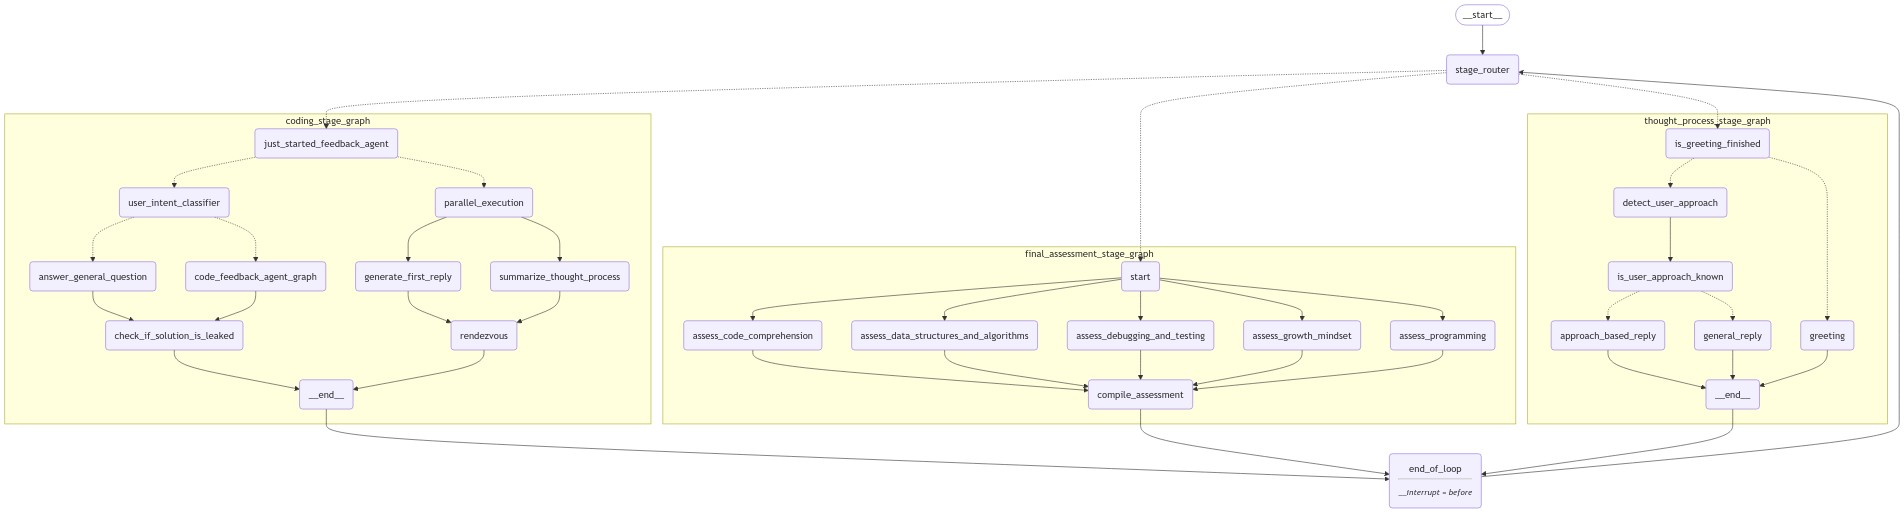
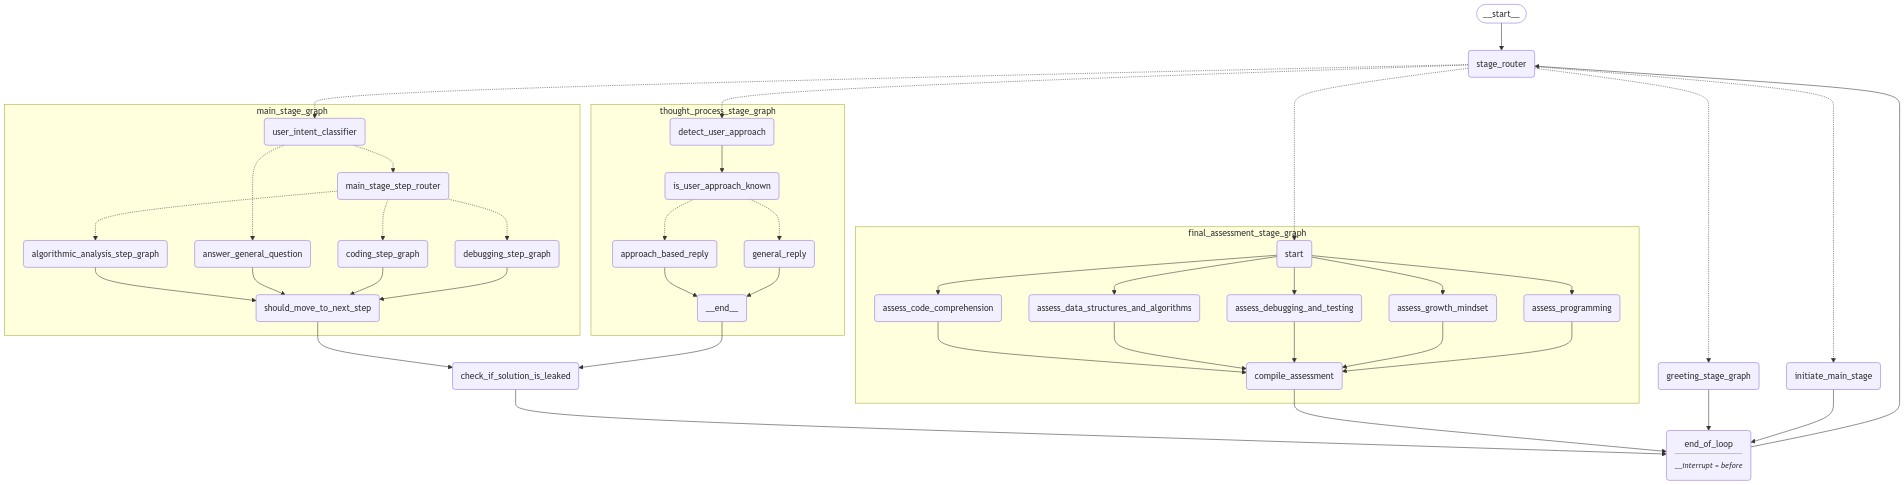
merge updated cognitive architecture

diff --git a/backend/agents/subgraphs/thought_process_stage/graph.py b/backend/agents/subgraphs/thought_process_stage/graph.py
@@ -11,7 +11,11 @@ from langchain_core.output_parsers import StrOutputParser
 from agents.state_schema import OverallState
 
 from agents.llm_models import chat_model
-from agents.subgraphs.thought_process_stage.prompts import default_system_message, IDENTIFY_USER_APPROACH, GIVE_APPROACH_SPEIFIC_HINT
+from agents.subgraphs.thought_process_stage.prompts import (
+    default_system_message,
+    IDENTIFY_USER_APPROACH,
+    GIVE_APPROACH_SPEIFIC_HINT,
+)
 from langchain_core.messages import SystemMessage, HumanMessage, AIMessage
 from pydantic import BaseModel, Field
 
@@ -23,17 +27,16 @@ def is_user_approach_known(state: OverallState):
     else:
         return n(general_reply)
 
+
 def approach_based_reply(state: OverallState):
     print("\n>>> NODE: approach_based_reply")
-
-    print(f"\n>>>NODE: {state.user_approach}")
     response = (
         ChatPromptTemplate.from_template(GIVE_APPROACH_SPEIFIC_HINT) | chat_model
     ).invoke(
         {
             "question": state.interview_question,
             "approach": f"{state.user_approach}",
-            "conversation": state.stringify_messages()
+            "conversation": state.stringify_messages(),
         }
     )
 
@@ -41,6 +44,7 @@ def approach_based_reply(state: OverallState):
         "message_from_interviewer": response.content.strip("ai: "),
         "messages": [AIMessage(content=response.content.strip("ai: "))],
     }
+
 
 def detect_user_approach(state: OverallState):
     print("\n>>> NODE: detect_user_approach")
@@ -59,29 +63,38 @@ def detect_user_approach(state: OverallState):
     IdentifyUserApproachResponse = type(
         "IdentifyUserApproachResponse",
         (BaseModel,),
-        {
-            "__annotations__": {"approach": Approach},
-            "approach": Field()
-        }
+        {"__annotations__": {"approach": Approach}, "approach": Field()},
     )
 
     approach_enum = (
-        ChatPromptTemplate.from_template(IDENTIFY_USER_APPROACH)
-        | chat_model.with_structured_output(IdentifyUserApproachResponse)
-    ).invoke(
-        {
-            "question": state.interview_question,
-            "approaches": state.interview_approaches,
-            "conversation": state.stringify_messages(),
-        }
-    ).approach
+        (
+            ChatPromptTemplate.from_template(IDENTIFY_USER_APPROACH)
+            | chat_model.with_structured_output(IdentifyUserApproachResponse)
+        )
+        .invoke(
+            {
+                "question": state.interview_question,
+                "approaches": state.interview_approaches,
+                "conversation": state.stringify_messages(),
+            }
+        )
+        .approach
+    )
 
-    user_approach_dict = next((approach for approach in state.interview_approaches if approach['title'] == approach_enum.value), None)
+    user_approach_dict = next(
+        (
+            approach
+            for approach in state.interview_approaches
+            if approach["title"] == approach_enum.value
+        ),
+        None,
+    )
 
     if user_approach_dict is None:
-        raise ValueError(f"Approach {approach_enum.value} not found in {state.interview_approaches}")
+        return {"user_approach:" "unknown"}
 
     return {"user_approach": json.dumps(user_approach_dict)}
+
 
 def general_reply(state: OverallState):
     print("\n>>> NODE: general_reply")
@@ -100,118 +113,19 @@ def general_reply(state: OverallState):
     }
 
 
-def is_greeting_finished(state: OverallState):
-    print("\n>>> CONDITIONAL EDGE: is_greeting_finished")
-    if state.stage == "greeting":
-        return n(greeting)
-    else:
-        return n(detect_user_approach)
-
-
-def greeting(state: OverallState):
-    print("\n>>> NODE: greeting")
-    first_msg = f"Hello! {state.interviewee_name} How are you doing today?\n\n💡If you already know how the interview works, you can answer 'skip'.)"
-    greeting_messages = [
-        """Let me explain the structure of the interview. There are two parts:
-
-1. Thought Process Phase: In this stage, you’ll walk me through how you would approach solving the problem.
-
-2. Coding Phase: In this stage, you will implement your solution based on the approach discussed.
-
-Does this make sense?""",
-        """Great! Let's begin the thought process phase.
-
-Please read the interview question above carefully, and explain how you would approach the problem. Feel free to ask clarifying questions at any point 😁""",
-    ]
-
-    if len(state.messages) == 0:
-        greeting_msg = first_msg
-        return {
-            "message_from_interviewer": greeting_msg,
-            "messages": [
-                default_system_message(state.interview_question_md),
-                AIMessage(content=greeting_msg),
-            ],
-        }
-    else:
-        if len(state.messages) > 1 and state.messages[-1].content.strip().lower() == "skip":
-            greeting_msg_index = -1
-            return {
-                "message_from_interviewer": greeting_messages[greeting_msg_index],
-                "messages": [AIMessage(content=greeting_messages[greeting_msg_index])],
-                "greeting_msg_index": greeting_msg_index,
-                "stage": "greeting" if greeting_msg_index < len(greeting_messages) and greeting_msg_index >= 0 else "thought_process",
-        }
-
-        class ContextualizedGreetingMessage(BaseModel):
-            rationale: str = Field(description="The rationale for the decision.")
-            should_use_predefined_reply: bool = Field(description="Return True if the predefined reply fits in the conversation. Otherwise, return False.")
-            amended_predefined_reply: str = Field(description="Return the amended predefined reply if should_use_predefined_reply is True. Otherwise, return an empty string.")
-            free_reply: str = Field(description="Return the free reply if should_use_predefined_reply is False. Otherwise, return an empty string.")
-
-        chain = (
-            ChatPromptTemplate.from_template(
-                """
-You just started interviewing a candidate for a software engineering role. There are three stages in this interview: greeting, thought process, and coding. You are currently in the greeting stage. You are going to greet the candidate and introduce how the interview will work. In thought process stage, you will ask the candidate to explain how they would approach solving the problem, and the candidate will answer through chat. In coding stage, the candidate will write code in the code editor that is shown in the right panel. The interview question is displayed above this chat panel.No 
-
----
-
-Now you have to decide which option to use to reply to the candidate. Options are:slook 
-{predefined_reply}
-
----
-
-## conversation
-{conversation}"""
-            )
-            | chat_model.with_structured_output(ContextualizedGreetingMessage)
-        )
-
-        stringified_messages = "\n\n".join(
-            [f">>{message.type}: {message.content}" for message in state.messages[1:]]
-        )
-        
-        response = chain.invoke(
-            {
-                "predefined_reply": greeting_messages[state.greeting_msg_index ],
-                "conversation": stringified_messages,
-            }
-        )
-
-        if response.should_use_predefined_reply:
-            greeting_msg = response.amended_predefined_reply
-            greeting_msg_index = state.greeting_msg_index + 1
-        else:
-            greeting_msg = response.free_reply
-            greeting_msg_index = state.greeting_msg_index
-
-        return {
-            "message_from_interviewer": greeting_msg,
-            "messages": [AIMessage(content=greeting_msg)],
-            "greeting_msg_index": greeting_msg_index,
-            "stage": "greeting" if greeting_msg_index < len(greeting_messages) else "thought_process",
-        }
-
-
 g = StateGraph(OverallState)
-g.add_edge(START, n(is_greeting_finished))
-
-g.add_node(n(is_greeting_finished), RunnablePassthrough())
-g.add_conditional_edges(
-    n(is_greeting_finished),
-    is_greeting_finished,
-    [n(greeting), n(detect_user_approach)],
-)
+g.add_edge(START, n(detect_user_approach))
 
 g.add_node(detect_user_approach)
 g.add_edge(n(detect_user_approach), n(is_user_approach_known))
 
 g.add_node(n(is_user_approach_known), RunnablePassthrough())
 g.add_node(approach_based_reply)
-g.add_conditional_edges(n(is_user_approach_known), is_user_approach_known, [n(approach_based_reply), n(general_reply)])
-
-g.add_node(greeting)
-g.add_edge(n(greeting), END)
+g.add_conditional_edges(
+    n(is_user_approach_known),
+    is_user_approach_known,
+    [n(approach_based_reply), n(general_reply)],
+)
 
 g.add_node(general_reply)
 g.add_edge(n(general_reply), END)

diff --git a/backend/agents/prompts.py b/backend/agents/prompts.py
@@ -1,4 +1,4 @@
-USER_INTENT_CLASSIFIER_PROMPT = """
+IS_THOUGHT_PROCESS_DONE = """
 You are interviewing a candidate for a software engineering role.There are two stages of the interview. A) Thought process stage: The candidate is thinking out loud about the problem. B) Actual coding stage: The candidate is writing code to solve the problem.
 The candidate is currently in the thought process stage. You need to decide if the candidate has provided enough thought process for the problem and can move on to the actual interview stage.
 

diff --git a/backend/agents/main_graph.py b/backend/agents/main_graph.py
@@ -43,7 +43,7 @@ def stage_router(state: OverallState) -> bool:
             )
 
         chain = ChatPromptTemplate.from_template(
-            prompts.USER_INTENT_CLASSIFIER_PROMPT
+            prompts.IS_THOUGHT_PROCESS_DONE
         ) | chat_model.with_structured_output(ClassifierResponse)
 
         stringified_messages = "\n\n".join(
